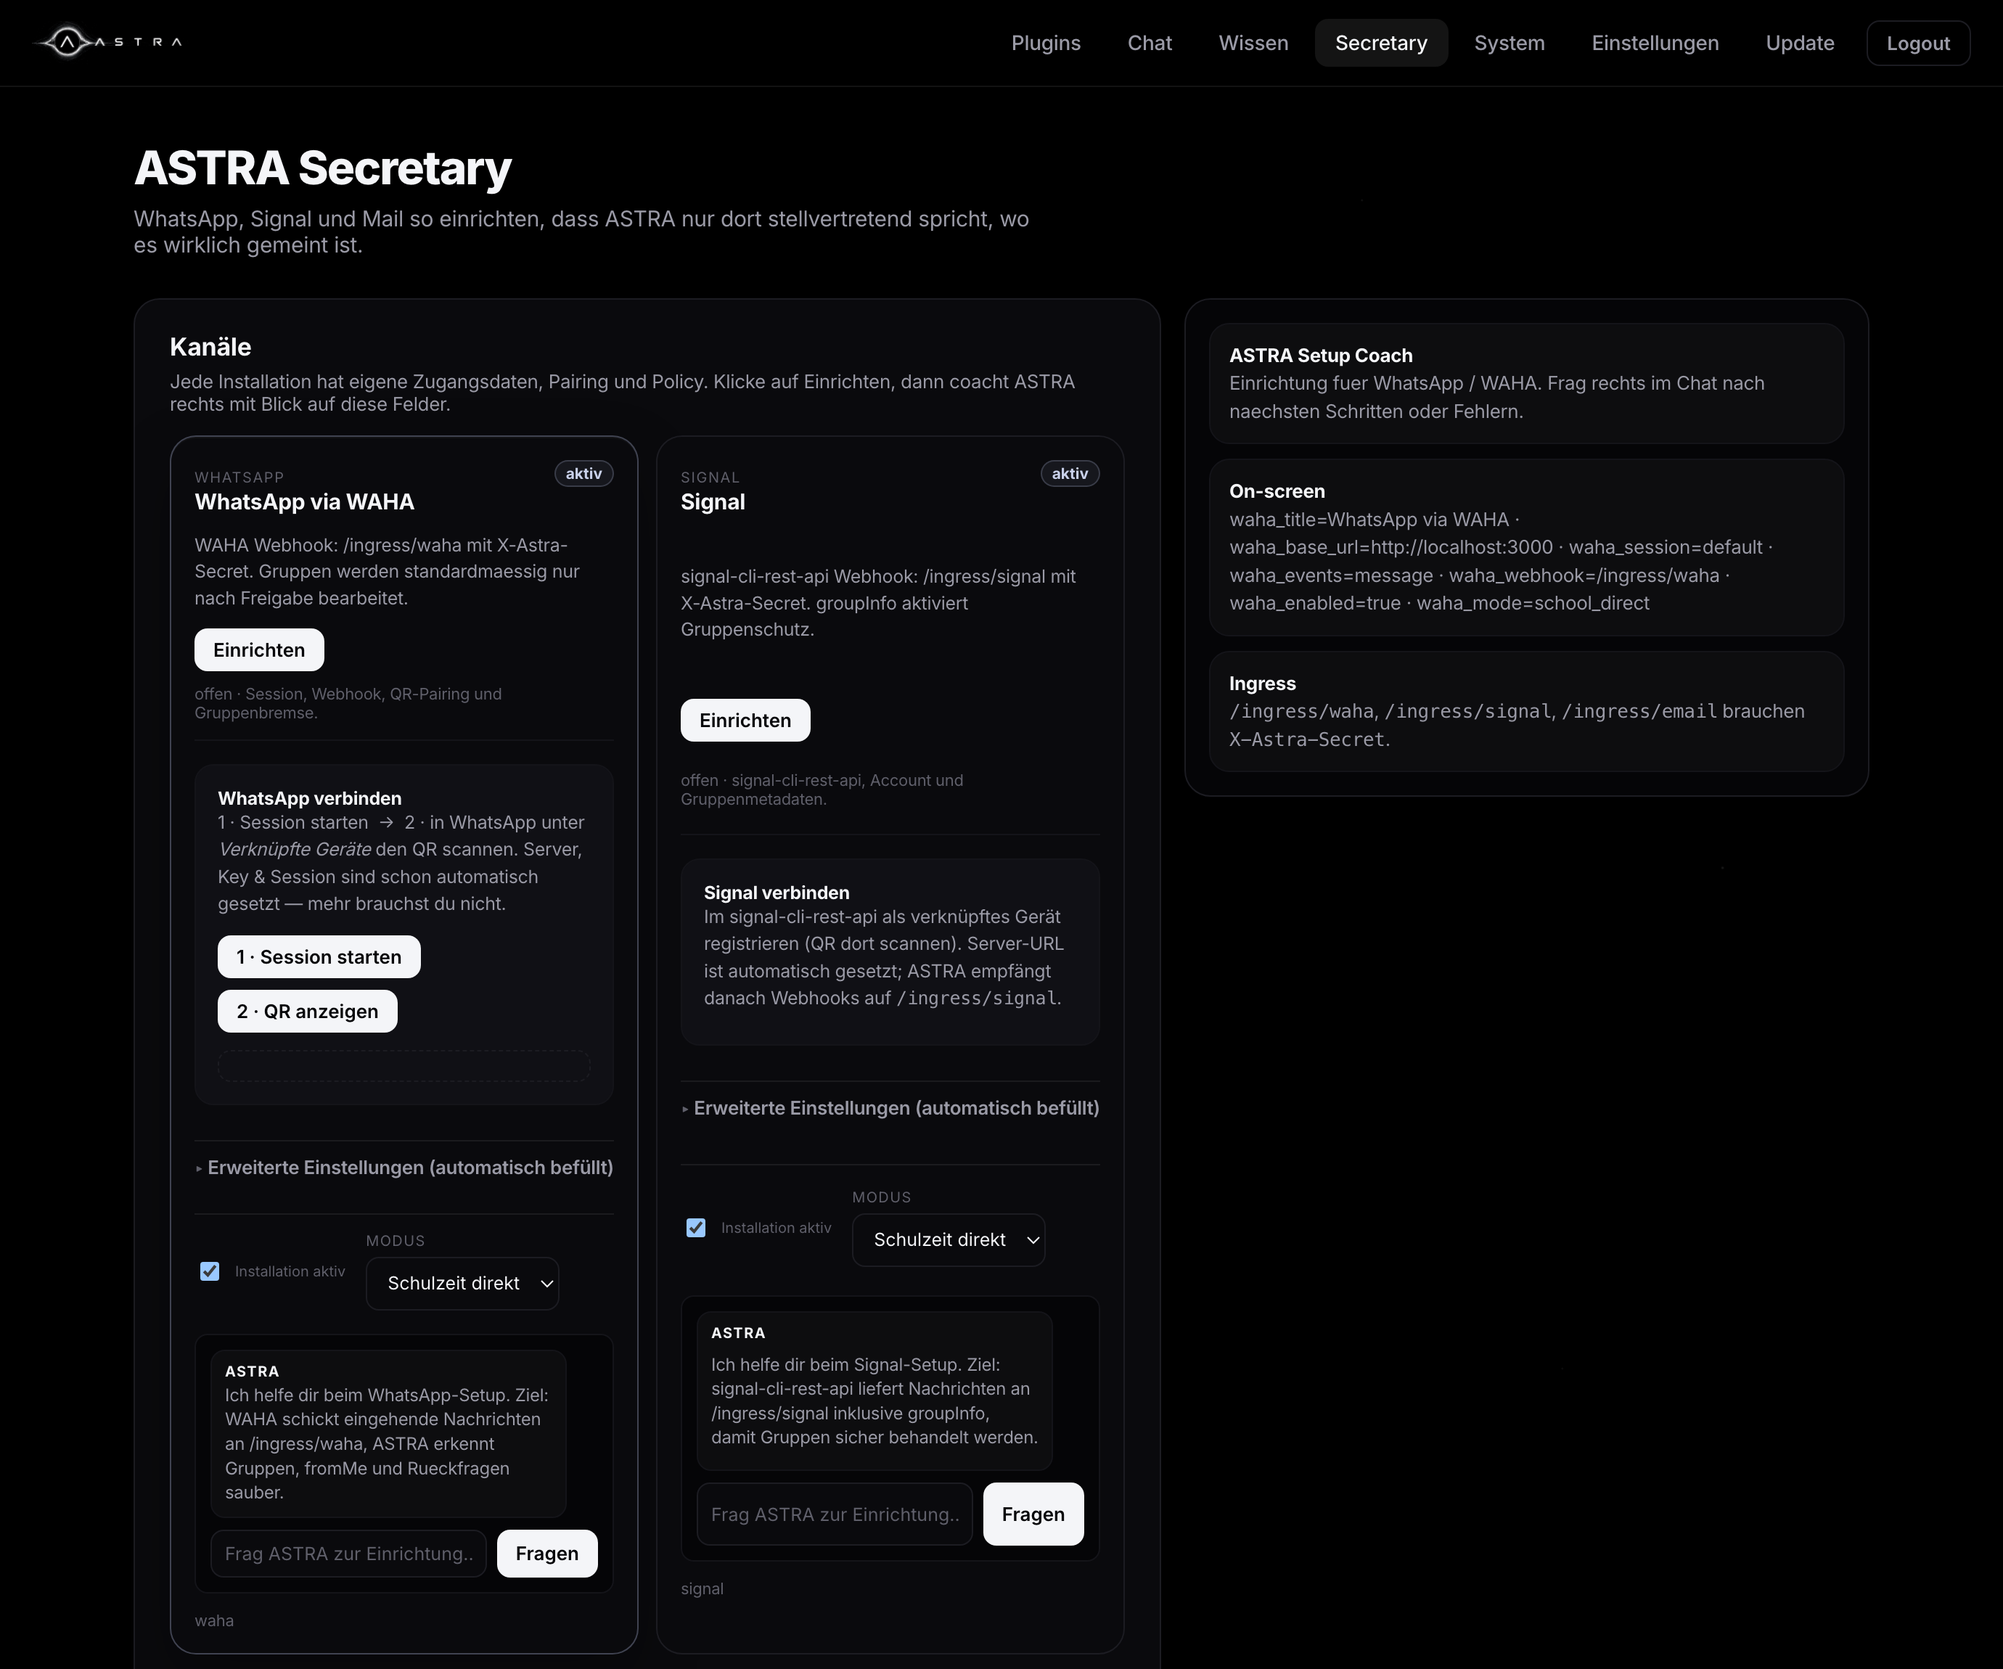
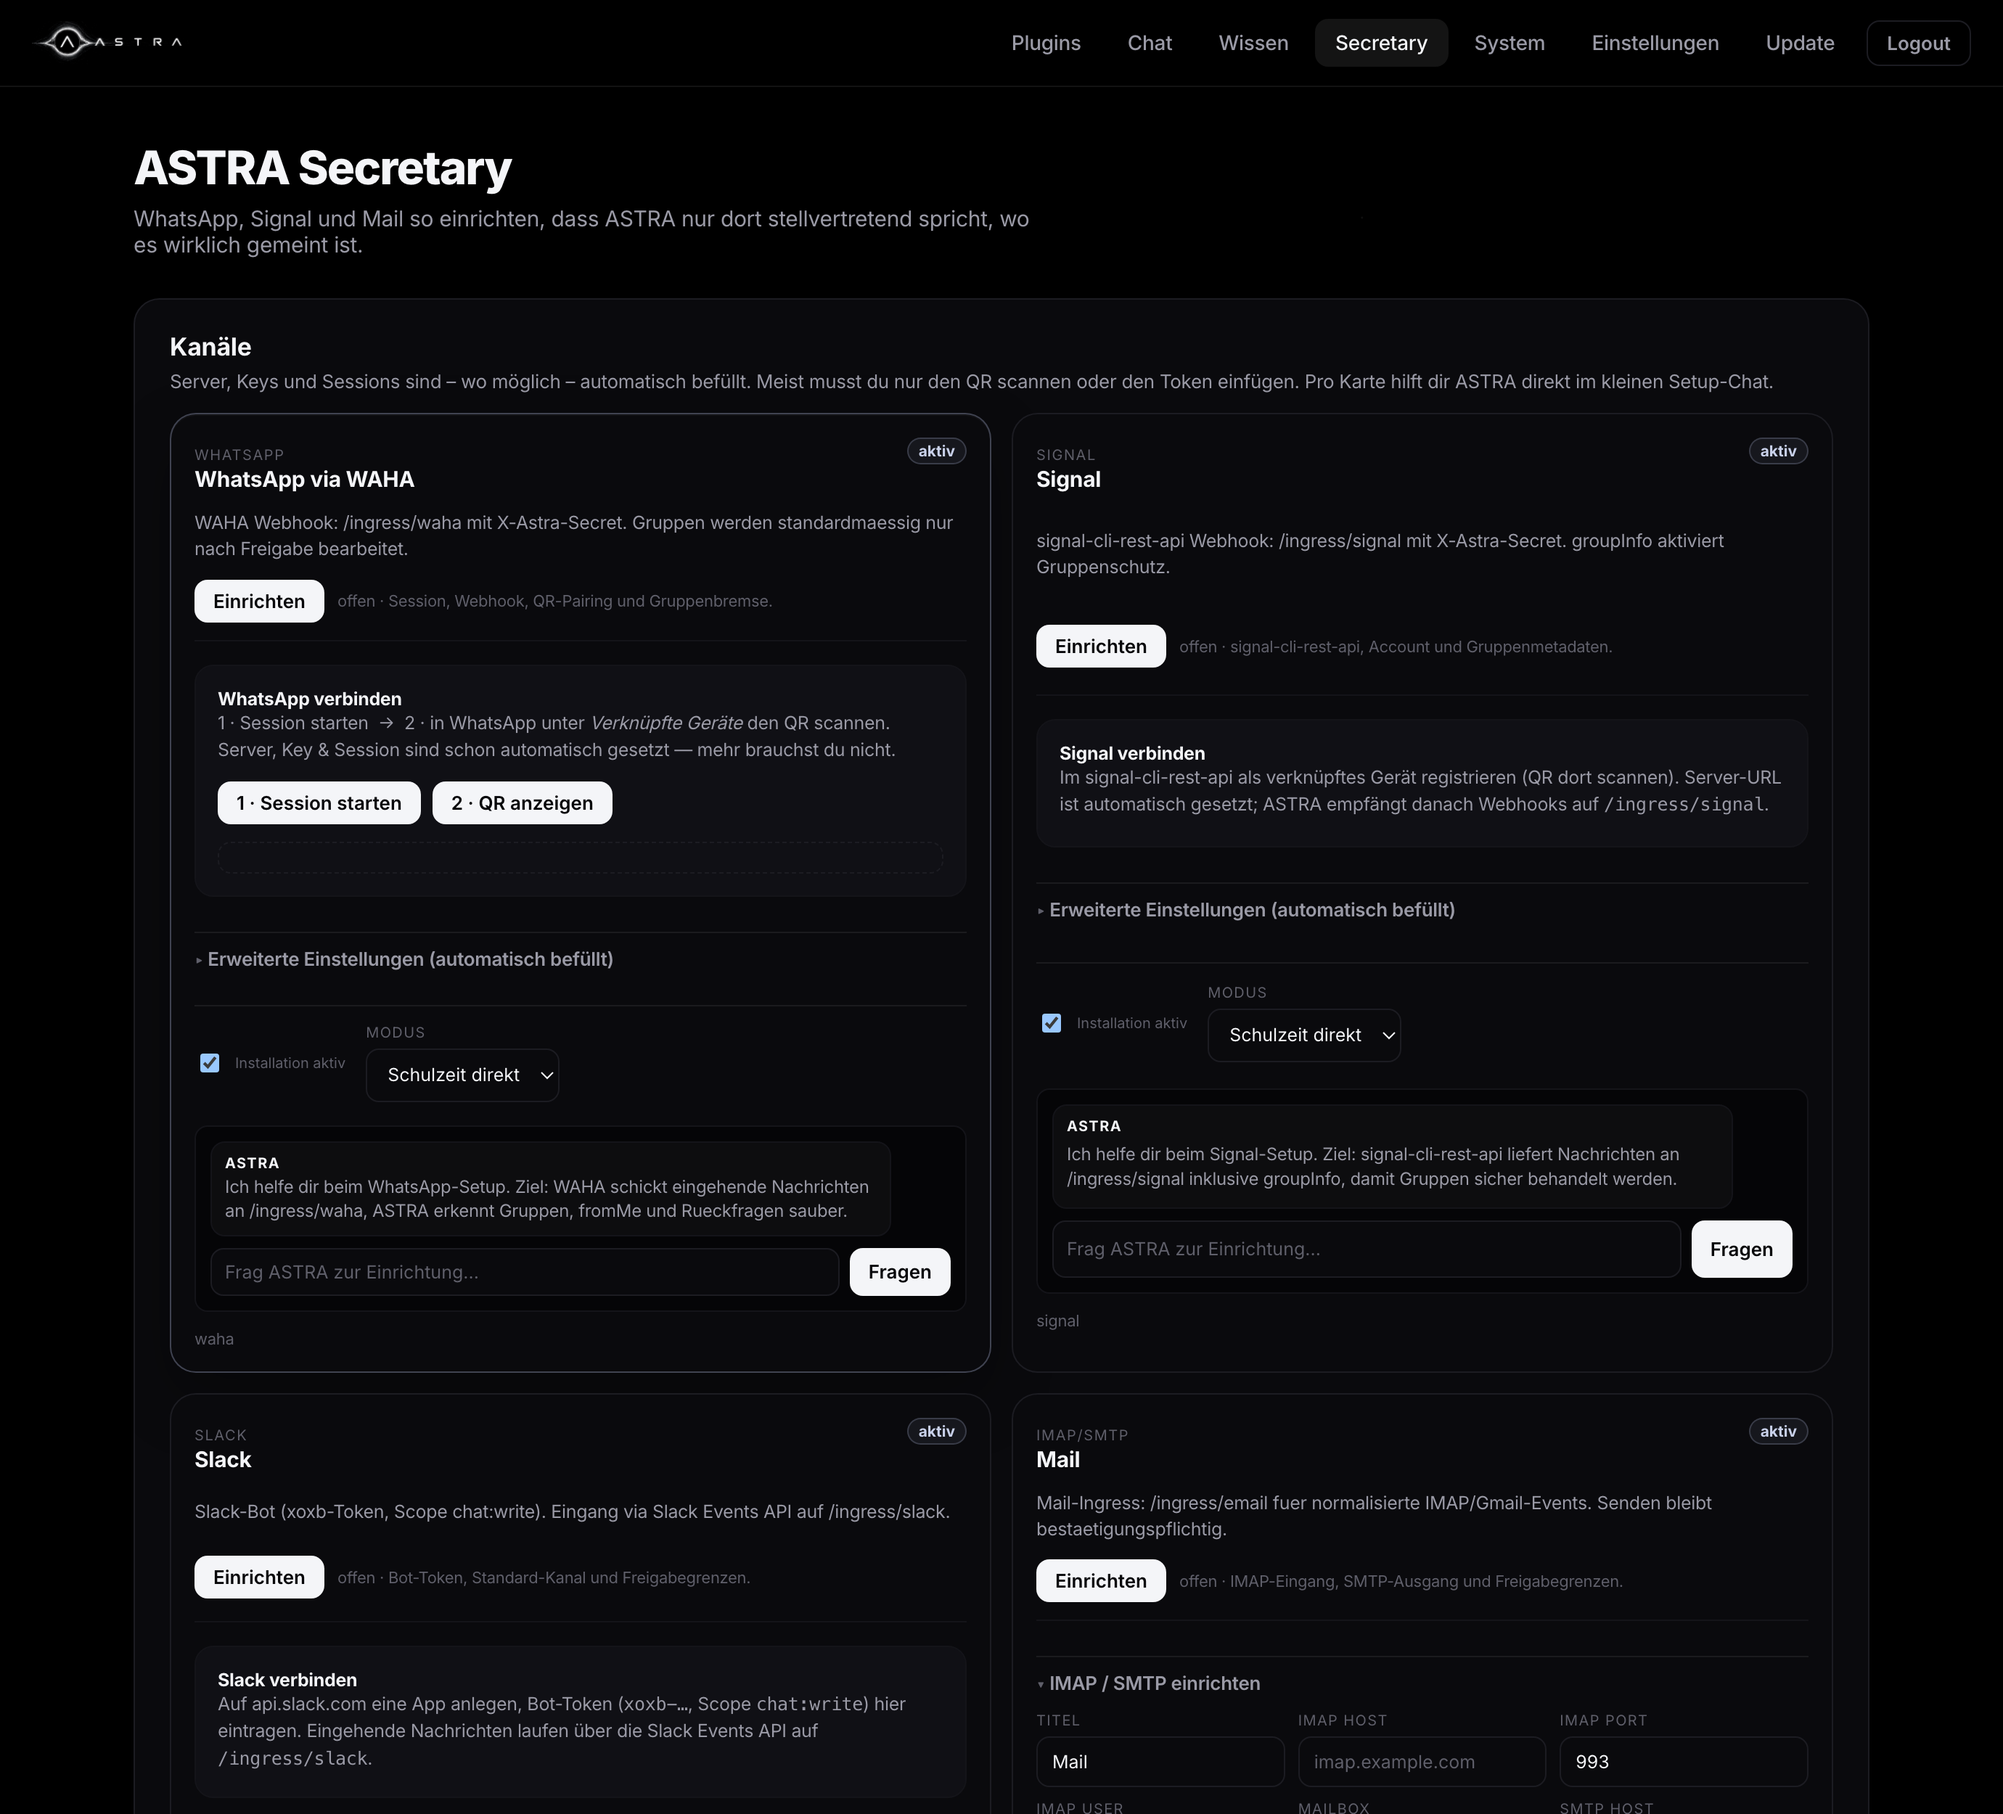
feat(secretary): drop right sidebar, 2-up wide cards, add Slack channel
- Remove the slim "ASTRA Setup Coach / On-screen / Ingress" sidebar; the
  channel section is now full-width with cards 2 per row (wider + shorter).
  Coach JS made null-safe; labels include Slack.
- Slack is a first-class Secretary channel (waha · signal · slack · email):
  bot-token + default-channel card, wired through secretary_settings,
  _channel_setup_fields, secretary_save and installations. Inbound via the
  Slack Events API on /ingress/slack.
- Plugins catalog: COMMS plugins now carry a "Secretary" tag (they double as
  secretary channels).
- Channel hint clarifies values are auto-filled (mostly just scan the QR).

80 tests pass. Updates docs/screenshots/secretary.png.

diff --git a/cortex/app/web/admin.py b/cortex/app/web/admin.py
@@ -652,6 +652,9 @@ def _card_html(p, is_fav: bool, installation_count: int = 1) -> str:
         f'<span class="badge b-off">{installation_count} Installationen</span>'
         if installation_count > 1 else ""
     )
+    # Messenger plugins double as Secretary channels — flag them.
+    sec_tag = ('<span class="tag-katalog" title="Auch als Secretary-Kanal nutzbar">Secretary</span>'
+               if getattr(p.category, "value", "") == "comms" else "")
     return f"""
         <div class="card {'on' if p.enabled else ''}"
              data-slug="{esc(p.slug)}"
@@ -661,7 +664,7 @@ def _card_html(p, is_fav: bool, installation_count: int = 1) -> str:
           <div class="top">
             {icon_html(p.slug, p.icon)}
             <div class="meta">
-              <h3>{esc(p.name)} <span class="tag-nativ">nativ</span></h3>
+              <h3>{esc(p.name)} <span class="tag-nativ">nativ</span>{sec_tag}</h3>
               <div class="cat">{cat_label}</div>
             </div>
             <button class="star {'on' if is_fav else ''}" data-slug="{esc(p.slug)}"
@@ -1816,7 +1819,7 @@ def _select(name: str, value: str, options: list[tuple[str, str]]) -> str:
     return f'<select name="{esc(name)}">{opts}</select>'
 
 
-SECRETARY_SETUP_CHANNELS = ("waha", "signal", "email")
+SECRETARY_SETUP_CHANNELS = ("waha", "signal", "slack", "email")
 SECRETARY_CHANNEL_SETUP = {
     "waha": {
         "title": "WhatsApp via WAHA",
@@ -1827,6 +1830,11 @@ SECRETARY_CHANNEL_SETUP = {
         "title": "Signal",
         "kind": "Signal",
         "summary": "signal-cli-rest-api, Account und Gruppenmetadaten.",
+    },
+    "slack": {
+        "title": "Slack",
+        "kind": "Slack",
+        "summary": "Bot-Token, Standard-Kanal und Freigabegrenzen.",
     },
     "email": {
         "title": "Mail",
@@ -1853,6 +1861,13 @@ def _secretary_installations(settings: dict) -> dict:
             "base_url": "",
             "account": "",
             "webhook_url": "/ingress/signal",
+            "status": "not_configured",
+        },
+        "slack": {
+            "title": "Slack",
+            "bot_token": "",
+            "default_channel": "#general",
+            "webhook_url": "/ingress/slack",
             "status": "not_configured",
         },
         "email": {
@@ -1974,6 +1989,19 @@ def _channel_setup_fields(channel: str, inst: dict) -> str:
             + _field("sec_signal_webhook", "ASTRA Webhook", inst.get("webhook_url", "/ingress/signal"))
             + "</div></details>"
         )
+    if channel == "slack":
+        return (
+            '<div class="pairing-panel primary">'
+            '<div><b>Slack verbinden</b><span>Auf api.slack.com eine App anlegen, Bot-Token '
+            '(<code>xoxb-…</code>, Scope <code>chat:write</code>) hier eintragen. Eingehende Nachrichten '
+            'laufen über die Slack Events API auf <code>/ingress/slack</code>.</span></div></div>'
+            '<details class="adv" open><summary>Slack-Zugang</summary><div class="install-fields">'
+            + _field("sec_slack_title", "Titel", inst.get("title", ""), placeholder="Slack")
+            + _field("sec_slack_bot_token", "Bot-Token (xoxb-…)", inst.get("bot_token", ""), placeholder="xoxb-…")
+            + _field("sec_slack_channel", "Standard-Kanal", inst.get("default_channel", "#general"), placeholder="#general")
+            + _field("sec_slack_webhook", "ASTRA Webhook", inst.get("webhook_url", "/ingress/slack"))
+            + "</div></details>"
+        )
     return (
         '<details class="adv" open><summary>IMAP / SMTP einrichten</summary><div class="install-fields">'
         + _field("sec_email_title", "Titel", inst.get("title", ""), placeholder="Mail")
@@ -1995,16 +2023,18 @@ def _secretary_channel_card(channel: str, cfg: dict, inst: dict) -> str:
     mode_options = {
         "waha": [("school_direct", "Schulzeit direkt"), ("always_ask", "Immer fragen"), ("wait", "Warten"), ("direct", "Direkt")],
         "signal": [("school_direct", "Schulzeit direkt"), ("always_ask", "Immer fragen"), ("wait", "Warten"), ("direct", "Direkt")],
+        "slack": [("school_direct", "Schulzeit direkt"), ("always_ask", "Immer fragen"), ("wait", "Warten"), ("direct", "Direkt")],
         "email": [("always_ask", "Immer fragen"), ("wait", "Warten"), ("direct", "Direkt")],
     }[channel]
     setup = {
         "waha": "WAHA Webhook: /ingress/waha mit X-Astra-Secret. Gruppen werden standardmaessig nur nach Freigabe bearbeitet.",
         "signal": "signal-cli-rest-api Webhook: /ingress/signal mit X-Astra-Secret. groupInfo aktiviert Gruppenschutz.",
+        "slack": "Slack-Bot (xoxb-Token, Scope chat:write). Eingang via Slack Events API auf /ingress/slack.",
         "email": "Mail-Ingress: /ingress/email fuer normalisierte IMAP/Gmail-Events. Senden bleibt bestaetigungspflichtig.",
     }[channel]
     setup_store = cfg.get("_setup_store") or {}
     meta = SECRETARY_CHANNEL_SETUP[channel]
-    status = "konfiguriert" if any(inst.get(k) for k in ("base_url", "imap_host")) else "offen"
+    status = "konfiguriert" if any(inst.get(k) for k in ("base_url", "imap_host", "bot_token")) else "offen"
     return f"""
       <div class="secretary-card install-card" data-install="{esc(channel)}">
         <div class="install-head">
@@ -2082,18 +2112,13 @@ async def secretary_page(request: Request, _: bool = Depends(auth.require_admin)
     </div>
     <form method="post" action="/admin/secretary">
       <input type="hidden" name="csrf" value="{esc(token)}">
-      <div class="secretary-grid">
-        <section class="panel">
-          <h2 style="margin:0 0 6px;font-size:17px">Kanäle</h2>
-          <p class="note" style="margin:0 0 14px">Jede Installation hat eigene Zugangsdaten, Pairing und Policy. Klicke auf Einrichten, dann coacht ASTRA rechts mit Blick auf diese Felder.</p>
-          <div class="secretary-cards">{channel_cards}</div>
-        </section>
-        <aside class="setup-chat setup-coach" id="setupCoach">
-          <div class="setup-bubble"><strong>ASTRA Setup Coach</strong><br><span id="coachIntro">Wähle links WhatsApp, Signal oder Mail. ASTRA sieht dann die aktuellen Felder und kann gezielt helfen.</span></div>
-          <div class="setup-bubble" id="coachAwareness"><strong>On-screen</strong><br>Noch keine Installation ausgewählt.</div>
-          <div class="setup-bubble"><strong>Ingress</strong><br><code>/ingress/waha</code>, <code>/ingress/signal</code>, <code>/ingress/email</code> brauchen <code>X-Astra-Secret</code>.</div>
-        </aside>
-      </div>
+      <section class="panel">
+        <h2 style="margin:0 0 6px;font-size:17px">Kanäle</h2>
+        <p class="note" style="margin:0 0 14px">Server, Keys und Sessions sind – wo möglich –
+          automatisch befüllt. Meist musst du nur den QR scannen oder den Token einfügen. Pro Karte
+          hilft dir ASTRA direkt im kleinen Setup-Chat.</p>
+        <div class="secretary-cards">{channel_cards}</div>
+      </section>
 
       <div class="panel" style="margin-top:16px">
         <h2 style="margin:0 0 6px;font-size:17px">Secretary Policy</h2>
@@ -2134,7 +2159,7 @@ async def secretary_page(request: Request, _: bool = Depends(auth.require_admin)
     </div>''' if threads else ''}
     <script>
       const activeSetup = {{channel: 'waha'}};
-      const labels = {{waha:'WhatsApp / WAHA', signal:'Signal', email:'Mail'}};
+      const labels = {{waha:'WhatsApp / WAHA', signal:'Signal', slack:'Slack', email:'Mail'}};
       function formContext(channel) {{
         const card = document.querySelector(`[data-install="${{channel}}"]`);
         const out = {{}};
@@ -2151,11 +2176,15 @@ async def secretary_page(request: Request, _: bool = Depends(auth.require_admin)
         document.querySelectorAll('.install-card').forEach(card => card.classList.toggle('active', card.dataset.install === channel));
         document.querySelectorAll('.install-config').forEach(cfg => cfg.hidden = cfg.dataset.config !== channel);
         document.querySelectorAll('.setup-chatbox').forEach(box => box.hidden = box.dataset.setupChannel !== channel);
-        const ctx = formContext(channel);
-        document.getElementById('coachIntro').textContent = `Einrichtung fuer ${{labels[channel]}}. Frag rechts im Chat nach naechsten Schritten oder Fehlern.`;
-        const visible = Object.entries(ctx).filter(([,v]) => v !== '' && v !== false).slice(0, 7)
-          .map(([k,v]) => `${{k}}=${{String(v).slice(0, 42)}}`).join(' · ');
-        document.getElementById('coachAwareness').innerHTML = '<strong>On-screen</strong><br>' + (visible || 'Noch keine Felder ausgefuellt.');
+        const ci = document.getElementById('coachIntro');
+        if (ci) ci.textContent = `Einrichtung fuer ${{labels[channel]}}.`;
+        const ca = document.getElementById('coachAwareness');
+        if (ca) {{
+          const ctx = formContext(channel);
+          const visible = Object.entries(ctx).filter(([,v]) => v !== '' && v !== false).slice(0, 7)
+            .map(([k,v]) => `${{k}}=${{String(v).slice(0, 42)}}`).join(' · ');
+          ca.innerHTML = '<strong>On-screen</strong><br>' + (visible || 'Noch keine Felder ausgefuellt.');
+        }}
       }}
       document.querySelectorAll('[data-open-setup]').forEach(btn => btn.onclick = () => updateCoach(btn.dataset.openSetup));
       document.querySelectorAll('.install-card input,.install-card select').forEach(el => el.addEventListener('input', () => updateCoach(activeSetup.channel)));
@@ -2256,6 +2285,12 @@ async def secretary_save(request: Request, _: bool = Depends(auth.require_admin)
             "base_url": str(form.get("sec_signal_base_url") or ""),
             "account": str(form.get("sec_signal_account") or ""),
             "webhook_url": str(form.get("sec_signal_webhook") or "/ingress/signal"),
+        },
+        "slack": {
+            "title": str(form.get("sec_slack_title") or "Slack"),
+            "bot_token": str(form.get("sec_slack_bot_token") or ""),
+            "default_channel": str(form.get("sec_slack_channel") or "#general"),
+            "webhook_url": str(form.get("sec_slack_webhook") or "/ingress/slack"),
         },
         "email": {
             "title": str(form.get("sec_email_title") or "Mail"),

diff --git a/cortex/app/web/templates.py b/cortex/app/web/templates.py
@@ -529,7 +529,8 @@ main:has(.chat-shell) { max-width: 1740px; padding: 16px 18px 38px; }
 
 /* secretary */
 .secretary-grid { display: grid; grid-template-columns: minmax(0,1.2fr) minmax(320px,.8fr); gap: 16px; }
-.secretary-cards { display: grid; grid-template-columns: repeat(auto-fit, minmax(230px,1fr)); gap: 12px; }
+.secretary-cards { display: grid; grid-template-columns: repeat(2, minmax(0, 1fr)); gap: 14px; }
+@media (max-width: 720px) { .secretary-cards { grid-template-columns: 1fr; } }
 .secretary-card { display: grid; gap: 12px; padding: 16px; background: var(--surface);
   border: 1px solid var(--border); border-radius: var(--r-lg); }
 .secretary-card.active { border-color: rgba(170,180,214,.34); box-shadow: inset 0 1px 0 rgba(255,255,255,.04), 0 18px 42px rgba(0,0,0,.28); }

diff --git a/cortex/app/secretary.py b/cortex/app/secretary.py
@@ -7,11 +7,12 @@ from zoneinfo import ZoneInfo
 
 from .policy import Mode, Sensitivity
 
-SECRETARY_CHANNELS = {"waha", "signal", "email"}
+SECRETARY_CHANNELS = {"waha", "signal", "slack", "email"}
 CHANNEL_LABELS = {
     "telegram": "Telegram",
     "waha": "WhatsApp",
     "signal": "Signal",
+    "slack": "Slack",
     "email": "Mail",
 }
 
@@ -62,6 +63,7 @@ def secretary_settings(app_settings: dict | None) -> dict:
         "channels": {
             "waha": chan("waha", enabled=True, mode="school_direct"),
             "signal": chan("signal", enabled=True, mode="school_direct"),
+            "slack": chan("slack", enabled=True, mode="school_direct"),
             "email": chan("email", enabled=True, mode="always_ask"),
         },
     }

diff --git a/cortex/tests/test_web.py b/cortex/tests/test_web.py
@@ -386,7 +386,7 @@ def test_secretary_shows_channel_threads_and_chat_import(memdb, monkeypatch):
     assert "sec_waha_base_url" in r.text
     assert "sec_email_imap_host" in r.text
     assert "sec_signal_base_url" in r.text
-    assert "ASTRA Setup Coach" in r.text
+    assert "sec_slack_bot_token" in r.text  # Slack is a Secretary channel now
     assert "QR anzeigen" in r.text
     assert "WhatsApp-Nachricht" in r.text
     assert "Telegram-Nachricht" not in r.text
